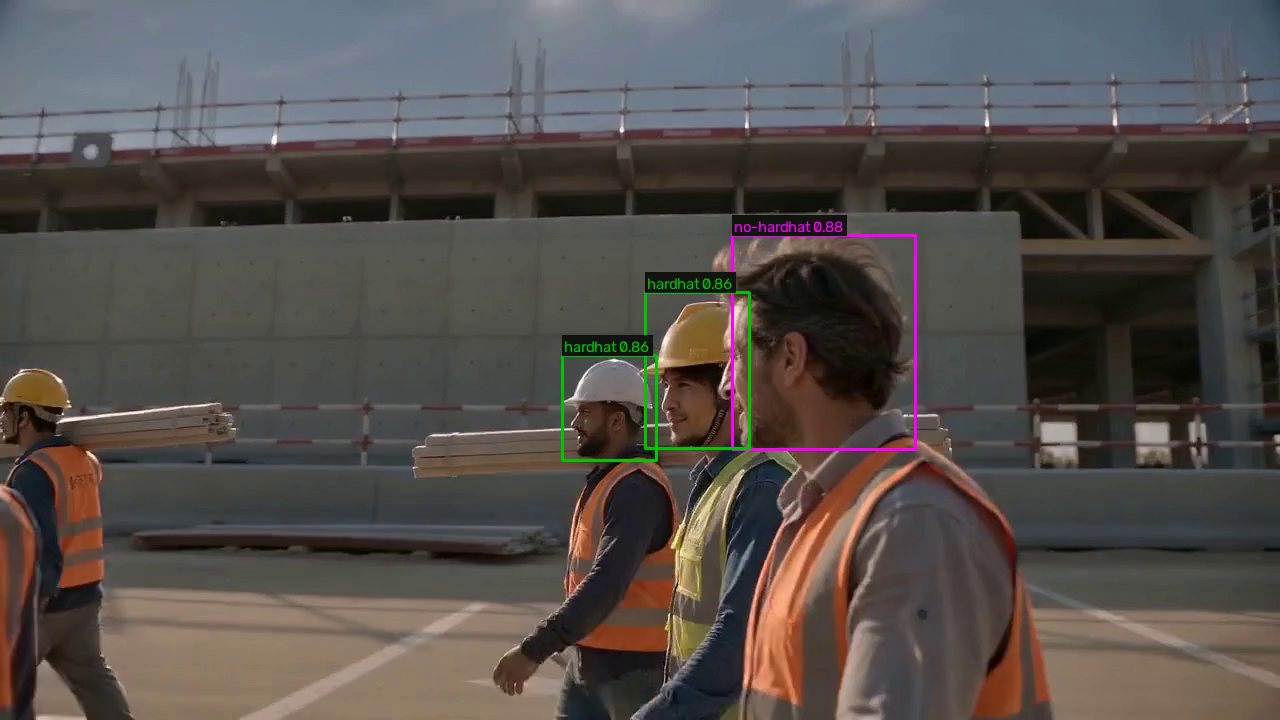
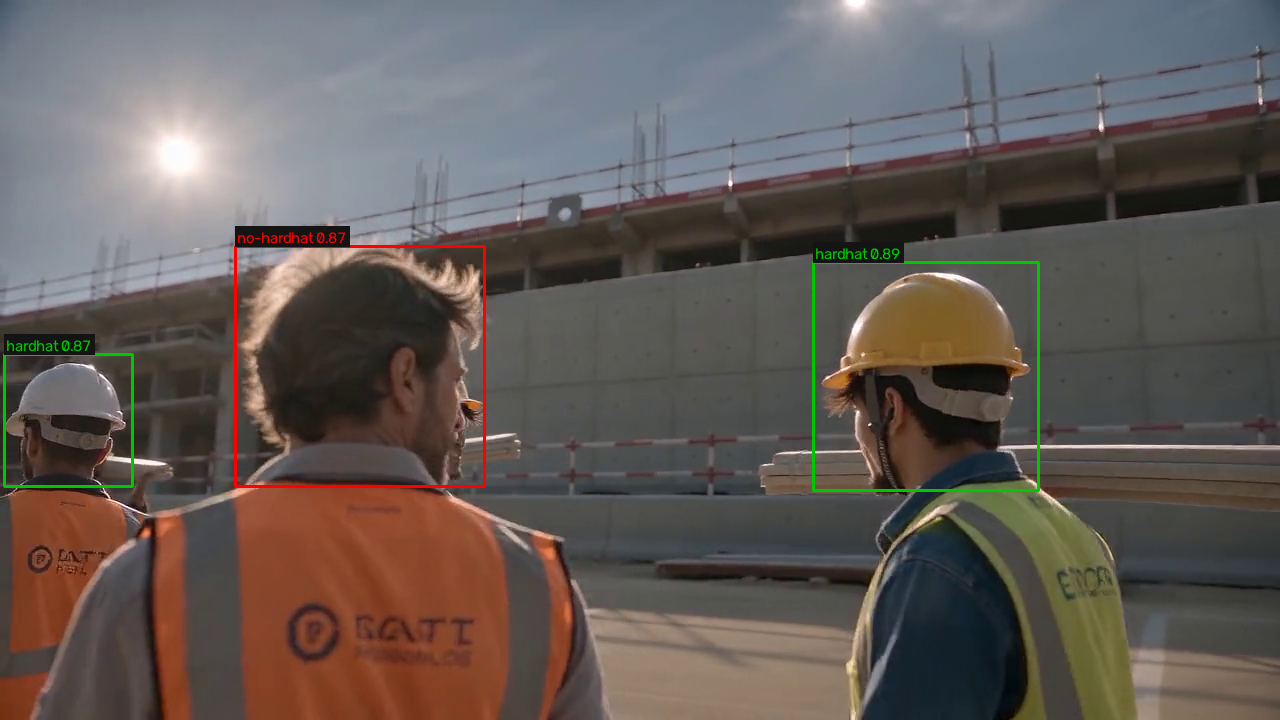
feat: 未戴安全帽框改为红色，重出截图

diff --git a/agents/alert.py b/agents/alert.py
@@ -34,7 +34,7 @@ CLASS_COLOR = {
     "fire": (0, 0, 255),          # 红 —— 明火
     "smoke": (0, 140, 255),       # 橙 —— 烟雾
     "hardhat": (0, 200, 0),       # 绿 —— 合规
-    "no-hardhat": (255, 0, 255),  # 品红 —— 违规
+    "no-hardhat": (0, 0, 255),  # 品红 —— 违规
     "person": (255, 255, 0),      # 青 —— 人员（睡岗 / 徘徊）
 }
 DEFAULT_COLOR = (0, 165, 255)
